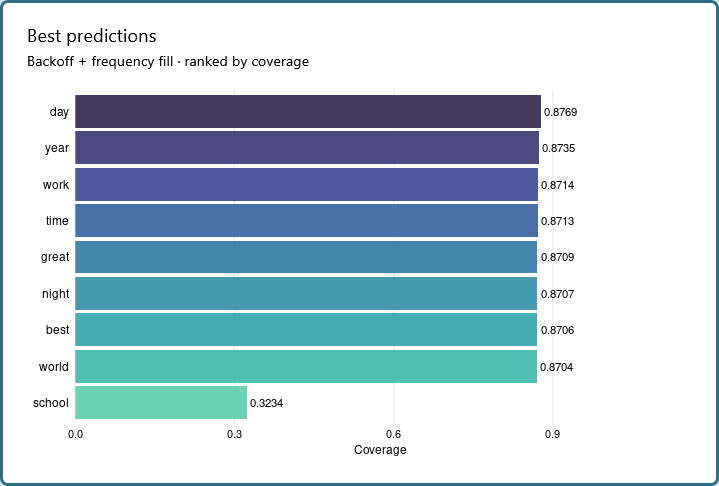
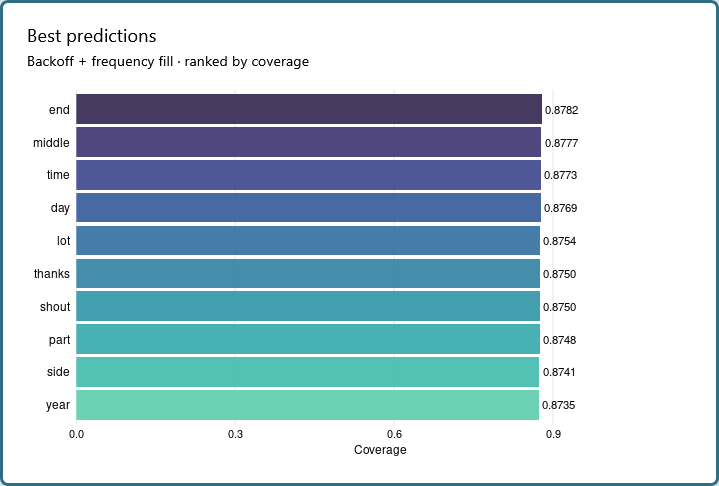
updated index and images of final app

Changed region(s): [[0.0306, 0.216, 0.8261, 0.9259], [0.306, 0.8642, 0.3366, 0.8951]]

diff --git a/index.html b/index.html
@@ -55,14 +55,15 @@ ul.task-list li input[type="checkbox"] {
   <li><a href="#app-features" id="toc-app-features" class="nav-link" data-scroll-target="#app-features">App Features</a>
   <ul class="collapse">
   <li><a href="#next-word-prediction" id="toc-next-word-prediction" class="nav-link" data-scroll-target="#next-word-prediction">Next Word Prediction</a></li>
-  <li><a href="#top-10-predictions-chart" id="toc-top-10-predictions-chart" class="nav-link" data-scroll-target="#top-10-predictions-chart">Top 10 Predictions Chart</a></li>
-  <li><a href="#metadata-table" id="toc-metadata-table" class="nav-link" data-scroll-target="#metadata-table">Metadata Table</a></li>
+  <li><a href="#exact-match-panel" id="toc-exact-match-panel" class="nav-link" data-scroll-target="#exact-match-panel">Exact Match Panel</a></li>
+  <li><a href="#best-predictions-panel" id="toc-best-predictions-panel" class="nav-link" data-scroll-target="#best-predictions-panel">Best Predictions Panel</a></li>
   </ul></li>
   <li><a href="#study-design" id="toc-study-design" class="nav-link" data-scroll-target="#study-design">Study Design</a>
   <ul class="collapse">
   <li><a href="#corpus" id="toc-corpus" class="nav-link" data-scroll-target="#corpus">Corpus</a></li>
   <li><a href="#model-development" id="toc-model-development" class="nav-link" data-scroll-target="#model-development">Model Development</a></li>
   <li><a href="#models-methods-and-implementations" id="toc-models-methods-and-implementations" class="nav-link" data-scroll-target="#models-methods-and-implementations">Models: Methods and Implementations</a></li>
+  <li><a href="#app-data-pipeline" id="toc-app-data-pipeline" class="nav-link" data-scroll-target="#app-data-pipeline">App Data Pipeline</a></li>
   <li><a href="#testing-model-accuracy-2026" id="toc-testing-model-accuracy-2026" class="nav-link" data-scroll-target="#testing-model-accuracy-2026">Testing Model Accuracy 2026</a></li>
   </ul></li>
   <li><a href="#project-resources" id="toc-project-resources" class="nav-link" data-scroll-target="#project-resources">Project Resources</a></li>
@@ -71,7 +72,7 @@ ul.task-list li input[type="checkbox"] {
   </ul>
 </nav>
 </div>
-<main class="content page-columns page-full" id="quarto-document-content">
+<main class="content" id="quarto-document-content">
 
 <header id="title-block-header" class="quarto-title-block default">
 <div class="quarto-title">
@@ -114,13 +115,15 @@ ul.task-list li input[type="checkbox"] {
 
 <section id="executive-summary" class="level2">
 <h2 class="anchored" data-anchor-id="executive-summary">Executive Summary</h2>
-<p><strong>Rationale:</strong> The goal was to build a Shiny app that predicts the next word from user text input using natural language processing techniques. The corpus used for training is the <a href="https://d396qusza40orc.cloudfront.net/dsscapstone/dataset/Coursera-SwiftKey.zip">SwiftKey dataset</a>, a large English-language collection of blogs, news articles, and tweets totalling approximately 200MB and 70 million words across three sources. Multiple modeling approaches were explored across four R packages — tidytext, quanteda, text2vec, and word2vec — including Stupid Backoff, MLE, interpolated backoff, Kneser-Ney smoothing, and Good-Turing smoothing. Stupid Backoff was the best performing model in 2021 and 2026. The new app version uses an improved Stupid Backoff model and UX design.</p>
+<p><strong>Rationale:</strong> The goal was to build a Shiny app that predicts the next word from user text input using natural language processing (NLP) techniques. The corpus used for training is the <a href="https://d396qusza40orc.cloudfront.net/dsscapstone/dataset/Coursera-SwiftKey.zip">SwiftKey dataset</a>, a large English-language collection of blogs, news articles, and tweets totalling approximately 200MB and 70 million words across three sources. Multiple modeling approaches were explored across four R packages — tidytext, quanteda, text2vec, and word2vec — including Stupid Backoff, MLE, interpolated backoff, Kneser-Ney smoothing, and Good-Turing smoothing. Stupid Backoff was the best performing model in 2021 and 2026. The 2026 app version uses an improved Stupid Backoff model built on pentagrams drawn from a 70% stratified sample of the corpus.</p>
 <p><strong>App Highlights</strong></p>
 <ul>
-<li>Accepts user text input and predicts the next word using a Stupid Backoff algorithm across unigram, bigram, trigram, and quadgram lookup tables, sampled from the top results weighted by probability</li>
-<li>Displays the top 10 predicted words and their probabilities in a bar chart</li>
-<li>Provides a metadata table showing which n-gram level was matched, total possibilities in that n-gram dataset, and number of matches found</li>
-<li>Supports both Go button and Enter key to trigger predictions</li>
+<li>Accepts user text input and predicts the next word using a windowed pentagram lookup with systematic backoff — searches all valid sequence positions across word1–word5, dropping the first word when matches are exhausted</li>
+<li>At the exact sequence level, allows up to 3 high-coverage stop words (e.g., of, a, the, not) alongside content word predictions (e.g., noun, verb, adjective, adverb) to capture natural completions while avoiding returning stop word heavy predictions.</li>
+<li>POS tag caching — uses udpipe to tag words by parts of speed and stores in session cache to improve response speed</li>
+<li>In addition to best prediction, there are two displays panels that each search the corpus for the exact input text, backing off to smaller ngrams if not found: Exact Match: if the input appears in the corpus, returns all results ranked by coverage (including best prediction); if no sequence match is found at any backoff level, searches for the last content word in input across pentagrams word1–word4, filters by coverage ≥ 0.50, and selects top word5. Best Predictions (fallback): filters results to nouns, proper nouns, and adjectives, then backfills with high-coverage unigrams from the pentagram pool when fewer than 10 POS-filtered results are found.</li>
+<li>Supports both Go button and Enter key to trigger predictions; clears panels on new input</li>
+<li>Built on a 70% stratified sample pentagram corpus (~157,500 rows) derived from news, blog, and Twitter text</li>
 </ul>
 <div class="callout callout-style-default callout-warning callout-titled">
 <div class="callout-header d-flex align-content-center">
@@ -137,65 +140,37 @@ ul.task-list li input[type="checkbox"] {
 </div>
 <hr>
 </section>
-<section id="app-features" class="level2 page-columns page-full">
+<section id="app-features" class="level2">
 <h2 class="anchored" data-anchor-id="app-features">App Features</h2>
 <section id="next-word-prediction" class="level3">
 <h3 class="anchored" data-anchor-id="next-word-prediction">Next Word Prediction</h3>
-<p>The app accepts a text string from the user and returns a predicted next word (<strong>Figure 1</strong>). Input is cleaned to lowercase before matching. The prediction uses a Stupid Backoff algorithm: the app first attempts to match the last three words of input against the quadgram lookup table. If no match is found it backs off to trigrams, then bigrams, then unigrams. The predicted word is sampled from the top 10 candidates at the matched n-gram level, weighted by probability, introducing variety across repeated queries while preserving the probability-based ranking. Stop words and single-character tokens are excluded from the predicted word display in the app interact.</p>
+<p>The app accepts a text string from the user and returns a predicted next word (<strong>Figure 1</strong>). Input is cleaned to lowercase, with apostrophes normalized and possessives removed before matching. Any input over 4 words uses only the last 4 words for the corpus search. The corpus search starts with max of four ngrams and then backs off to smaller ngrams if a match is not found. The predicted word is the first content word (noun, verb, adjective, adverb, or pronoun) from the Exact Match results ranked by coverage, selected via udpipe POS tagging. Up to 3 high-coverage stop words (quanteda stop word list) are permitted in the results but are skipped when selecting the predicted word. Up to 3 high-coverage stop words (quanteda stop word list) are permitted in the results, so the predicted word may occasionally be a stop word when it is the most probable continuation of the input. If no content word is found, the highest-coverage match from Best Predictions is returned. Total possibilities (pentagram corpus size) and exact match count are displayed as footnotes in the top panel.</p>
 <p><strong>Figure 1. App interface showing user input and predicted next word.</strong></p>
-<p><img src="outputs/fig-app-interface.png" class="img-fluid"> <strong>Interpretation:</strong> The prediction panel shows the most likely next word given the user input. The sidebar displays the predicted word prominently above the visualization tabs.</p>
+<p><img src="outputs/fig-app-interface.png" class="img-fluid"></p>
+<p><strong>Interpretation:</strong> The top panel shows the user input field, Go button, and predicted next word. Total possibilities and exact match count appear below as context for the prediction.</p>
 </section>
-<section id="top-10-predictions-chart" class="level3 page-columns page-full">
-<h3 class="anchored" data-anchor-id="top-10-predictions-chart">Top 10 Predictions Chart</h3>
-<p>The prediction bar chart in <strong>Figure 2</strong> displays the top 10 candidate next words ranked by probability, with the number of candidates varying based on matches found at the matched n-gram level . Bars are filled using the mako palette, with higher-probability predictions shown in darker shades. Probability is calculated as the count of the matched n-gram divided by the total count of all n-grams sharing the same prefix.</p>
-<p><strong>Figure 2. Top 10 predicted next words with probability scores for different types of matches</strong></p>
-<div class="column-page">
-<div class="quarto-layout-panel" data-layout-ncol="3">
-<div class="quarto-layout-row">
-<div class="quarto-layout-cell" style="flex-basis: 33.3%;justify-content: flex-start;">
-<div class="quarto-figure quarto-figure-center">
-<figure class="figure">
-<p><img src="outputs/match-single.png" class="img-fluid figure-img"></p>
-<figcaption>A) Single match</figcaption>
-</figure>
-</div>
-</div>
-<div class="quarto-layout-cell" style="flex-basis: 33.3%;justify-content: flex-start;">
-<div class="quarto-figure quarto-figure-center">
-<figure class="figure">
-<p><img src="outputs/match-many.png" class="img-fluid figure-img"></p>
-<figcaption>B) Many matches</figcaption>
-</figure>
-</div>
-</div>
-<div class="quarto-layout-cell" style="flex-basis: 33.3%;justify-content: flex-start;">
-<div class="quarto-figure quarto-figure-center">
-<figure class="figure">
-<p><img src="outputs/match-strong.png" class="img-fluid figure-img"></p>
-<figcaption>C) Strong match</figcaption>
-</figure>
-</div>
-</div>
-</div>
-</div>
-</div>
-<p><strong>Interpretation:</strong> The charts reveal how probability distributions vary across prediction contexts. A single dominant bar indicates a strong contextual match (C); a more even distribution across candidates reflects a weaker match with multiple plausible completions (B); and a single bar at 1.0 indicates exactly one match was found at that ngram level (A).</p>
+<section id="exact-match-panel" class="level3">
+<h3 class="anchored" data-anchor-id="exact-match-panel">Exact Match Panel</h3>
+<p>The Exact Match panel (<strong>Figure 2</strong>) displays corpus sequence matches ranked by coverage using a sliding window search followed by a backoff if needed–a contextual prediction. Either full input text or the last four words of text 5+ words in length searches in sliding windows across word1–word4 for a match. If a match is found, the predicted word is the column immediately following the last matched word (for four words, Word5 in pentagrams is a match). Up to 3 high-coverage stop words are allowed alongside content words, enabling natural predictions like “not” following “he did.” If there are not ten exact matches to full input sequence, the stupid backoff is triggered. The backoff filters stop words and drops the first input word to search for a match, dropping input words until all options are exhausted. Numerics and input words are excluded from all predictions.</p>
+<p><strong>Figure 2. Exact Match panel showing corpus sequence predictions for “where did you go to”.</strong></p>
+<p><img src="outputs/fig-exact-match.png" class="img-fluid"></p>
+<p><strong>Interpretation:</strong> Bars represent predictions ranked by coverage (cumulative corpus frequency). Stop words may appear among the top predictions when they are the most probable continuations of the input sequence. This panel provides the most accurate matche for the user.</p>
 </section>
-<section id="metadata-table" class="level3">
-<h3 class="anchored" data-anchor-id="metadata-table">Metadata Table</h3>
-<p>The metadata table shows the mechanics of the prediction: which n-gram level produced the match, the total number of n-grams at that level, and the number of matches found for the user input. This transparency about the backoff process was a deliberate design choice to make the model’s behavior interpretable.</p>
-<p><strong>Figure 3. Metadata table showing prediction mechanics.</strong></p>
-<p><img src="outputs/fig-app-table.png" class="img-fluid"></p>
-<p><strong>Interpretation:</strong> When the n-gram evaluated is a quadgram and matches are high, the prediction is well-grounded in the corpus. When the model reports backing off to unigrams with zero matches, the prediction is essentially a frequency-ranked guess from the full vocabulary.</p>
+<section id="best-predictions-panel" class="level3">
+<h3 class="anchored" data-anchor-id="best-predictions-panel">Best Predictions Panel</h3>
+<p>The Best Predictions panel (<strong>Figure 3</strong>) offers predictions using high-coverage unigrams with POS tagging as drawn from all five pentagram word columns and provides fallback options for the user if the predicted words were incorrect–a frequency-based approach. The use of POS tagging is designed to surface the most grammatically appropriate and content-rich predictions even if selecting by corpus frequency.</p>
+<p><strong>Figure 3. Best Predictions panel using POS-tagging and frequency to find a prediction for “where did you go to”.</strong></p>
+<p><img src="outputs/fig-best-predictions.png" class="img-fluid"></p>
+<p><strong>Interpretation:</strong> Bars represent POS-filtered predictions based on POS and frequency (high-coverage unigrams in the pentagram pool). This panel complements the Exact Match panel by providing additional predictions should the output not meet user expectations.</p>
 <hr>
 </section>
 </section>
 <section id="study-design" class="level2">
 <h2 class="anchored" data-anchor-id="study-design">Study Design</h2>
-<p>The original project (2021) was a capstone assignment for the Johns Hopkins Data Science Specialization on Coursera. Coming to NLP with no prior exposure, I independently learned and implemented multiple modeling approaches in R over six weeks — with no instruction on accuracy testing, I designed and built the evaluation framework from scratch. I built and tested several models before settling on a Stupid Backoff n-gram model for the deployed app. In 2026 I decided to revamp the original app using improved tools.</p>
+<p>The original project (2021) was a capstone assignment for the Johns Hopkins Data Science Specialization on Coursera. Coming to NLP with no prior exposure, I independently learned and implemented multiple modeling approaches in R over six weeks — with no instruction on accuracy testing, I designed and built the evaluation framework from scratch. In 2026 I decided to revamp the original app using improved tools.</p>
 <section id="corpus" class="level3">
 <h3 class="anchored" data-anchor-id="corpus">Corpus</h3>
-<p>The SwiftKey dataset contains English-language text from three sources. <strong>Table 1</strong> summarizes the corpus. Text was cleaned by removing punctuation (except apostrophes), digits, URLs, and profanity. In 2021, I experimented with removing stop words but the UX was poor and I reverted to including them.</p>
+<p>The SwiftKey dataset contains English-language text from three sources. <strong>Table 1</strong> summarizes the corpus. Text was cleaned by removing punctuation (except apostrophes), digits, URLs, and profanity using the <code>lexicon::profanity_alvarez</code> list. In 2021, I experimented with removing stop words but the UX was poor and I reverted to including them.</p>
 <p><strong>Table 1. SwiftKey Corpus Summary</strong></p>
 <table class="caption-top table">
 <thead>
@@ -243,22 +218,28 @@ ul.task-list li input[type="checkbox"] {
 <h3 class="anchored" data-anchor-id="model-development">Model Development</h3>
 <p>Building the n-gram lookup tables required substantial iterative work spanning June-July 2021. In addition to early exploration of topic-based prediction using Latent Dirichlet Allocation (LDA), other approaches were explored and deemed inappropriate. The two main ones were:</p>
 <ul>
-<li><strong>Text2Vec Model</strong>.GloVe Word Embeddings and Collocation: GloVe is a semantic similarity approach that represents words as dense vectors based on co-occurrence statistics, capturing semantic relationships rather than word sequences. The advantage is rich semantic representation — words with similar meanings cluster in vector space. The limitation is fundamental to the architecture: GloVe is not a sequence model and cannot predict the next word in a sentence without additional architecture. A term co-occurrence matrix was built from a 40% sample using a skip-gram window of 5, and GloVe was fitted with rank 50 over 10 iterations. The classic Paris-France-Germany analogy test confirmed the embeddings captured semantic relationships. A collocation variant with a different vector arithmetic test was also attempted. Both variants were abandoned as unsuitable for the sequence prediction task.</li>
-<li><strong>Word2Vec Model</strong>. CBOW and Skipgram: Word2Vec produces dense word embeddings that capture semantic relationships in both continuous bag-of-words and skipgram variants. Like GloVe, the strength is semantic representation — the embeddings reflect meaningful word relationships. The limitation is the same: Word2Vec is not a sequence model, and nearest-neighbor predictions using cosine similarity produce semantically related words rather than contextually likely next words. Both CBOW and skipgram models were trained on the 90% training split. Both were abandoned as unsuitable for sequence prediction.</li>
+<li><p><strong>Text2Vec Model</strong>. GloVe Word Embeddings and Collocation: GloVe is a semantic similarity approach that represents words as dense vectors based on co-occurrence statistics, capturing semantic relationships rather than word sequences. The advantage is rich semantic representation — words with similar meanings cluster in vector space. The limitation is fundamental to the architecture: GloVe is not a sequence model and cannot predict the next word in a sentence without additional architecture. A term co-occurrence matrix was built from a 40% sample using a skip-gram window of 5, and GloVe was fitted with rank 50 over 10 iterations. The classic Paris-France-Germany analogy test confirmed the embeddings captured semantic relationships. A collocation variant with a different vector arithmetic test was also attempted. Both variants were abandoned as unsuitable for the sequence prediction task.</p></li>
+<li><p><strong>Word2Vec Model</strong>. CBOW and Skipgram: Word2Vec produces dense word embeddings that capture semantic relationships in both continuous bag-of-words and skipgram variants. Like GloVe, the strength is semantic representation — the embeddings reflect meaningful word relationships. The limitation is the same: Word2Vec is not a sequence model, and nearest-neighbor predictions using cosine similarity produce semantically related words rather than contextually likely next words. Both CBOW and skipgram models were trained on the 50% training split. Both were abandoned as unsuitable for sequence prediction.</p></li>
 </ul>
-<p>Forty percent of each SwiftKey dataset was subsampled and then combined into a single corpus. Quanteda and tidytext were used for corpus processing and trimming (filter by count or coverage). App data were generated with and without stopwords. Trimming by coverage and retaining stopwords resulted in better UX and the final implementaions were tested for accuracy to assess whether the top-1 predicted word matched the target word using quadgram data as the test set. Stupid Backoff achieved 14.21% top-1 accuracy when predicting the <strong>exact word</strong>, not probable matches. Updated versions of original scripts for quanteda and tidytext have been consolidated and updated but any original bugs retained with annotations. These are shared in artifacts/.</p>
-<p>The 2026 project revisited the 2021 findings updating the approaches and introducing a new accuracy framework. An interterpolated approach was added and prior attempts at MLE were debugged. As with the 2021 project, 40% of the individual source files were sampled then joined. An additional 10% was subsampled from each source dataset to use as a test set for accuracy testing. The accuracy metric was expanded to top-10 and part-of-speech (POS) accuracy via udpipe. New accuracy metrics thus evaluated whether the correct word appeared in the top 10 candidates and whether the predicted word was grammatically appropriate.</p>
-<p>Tidytext Stupid Backoff and Interpolated Backoff performed nearly equally, but the interpolated model consistently favored specific high-frequency words, resulting in poor UX. Stupid Backoff was confirmed as the final model. The app was redesigned with a modernized interface using bslib, a revised metadata table, weighted probability sampling for the predicted word, and Enter key support.</p>
+<p>Forty percent of each SwiftKey dataset was subsampled and then combined into a single corpus for 2021 development. Quanteda and tidytext were used for corpus processing and trimming (filter by count or coverage). App data were generated with and without stopwords. Trimming by coverage and retaining stopwords resulted in better UX and the final implementations were tested for accuracy to assess whether the top-1 predicted word matched the target word using quadgram data as the test set. Stupid Backoff achieved 14.21% top-1 accuracy when predicting the exact word, not probable matches. Updated versions of original scripts for quanteda and tidytext have been consolidated and updated but any original bugs retained with annotations. These are shared in artifacts/.</p>
+<p>The 2026 project revisited the 2021 findings updating the approaches and introducing a new accuracy framework. An interpolated approach was added and prior attempts at MLE were debugged. Fifty percent of the individual source files were sampled then joined (the 2021 project sampled 40%). An additional 10% was subsampled from each source dataset to use as a test set for accuracy testing. The accuracy metric was expanded to top-10 and part-of-speech (POS) accuracy via udpipe. New accuracy metrics thus evaluated whether the correct word appeared in the top 10 candidates and whether the predicted word was grammatically appropriate.</p>
+<p>Tidytext Stupid Backoff and Interpolated Backoff performed nearly equally, but the interpolated model consistently favored specific high-frequency words, resulting in poor UX. Stupid Backoff was confirmed as the final model.</p>
 </section>
 <section id="models-methods-and-implementations" class="level3">
 <h3 class="anchored" data-anchor-id="models-methods-and-implementations">Models: Methods and Implementations</h3>
-<p><strong>tidytext Models</strong>. Stupid Backoff (2021 and 2026 winner): Stupid Backoff matches the input against the highest-order ngram available, backs off through lower orders if no match is found, and falls back to top unigrams as a last resort. No smoothing is applied — relative frequencies are used directly. The approach is simple, fast, and reliable, making it well suited to a Shiny deployment with memory and speed constraints. The primary limitation is that it assigns no probability to unseen ngrams and applies no discounting to redistribute probability mass. The tidytext implementation used unnest_tokens, a 90% cumulative coverage filter, and separated word columns keyed for fast lookup.</p>
+<p><strong>tidytext Models</strong>. Stupid Backoff (2021 and 2026 winner): Stupid Backoff matches the input against the highest-order ngram available, backs off through lower orders if no match is found, and falls back to top unigrams as a last resort. No smoothing is applied — relative frequencies are used directly. The approach is simple, fast, and reliable, making it well suited to a Shiny deployment with memory and speed constraints. The primary limitation is that it assigns no probability to unseen ngrams and applies no discounting to redistribute probability mass. The tidytext implementation used unnest_tokens, filters (rare ngrams, 80% cumulative coverage, dictionary matches), and separated word columns keyed for fast lookup.</p>
 <p>Maximum Likelihood Estimation (MLE): MLE computes the probability of a word given its preceding context as a relative frequency — the count of the ngram divided by the count of the preceding context. No smoothing or discounting is applied. MLE is transparent, fast, and easy to implement. The primary limitation is brittleness on unseen ngrams: any input absent from the training data returns zero probability with no recovery beyond dropping to a lower ngram order. The tidytext implementation followed the same pipeline as Stupid Backoff — unnest_tokens, 90% coverage filter, separated word columns — with probability computed as n divided by the sum of n within each preceding context group.</p>
 <p>Interpolated Backoff: Interpolated backoff combines probability estimates across all ngram levels rather than committing to the highest-order match and backing off only on failure. The final probability for a predicted word is a weighted sum of its quadgram, trigram, bigram, and unigram probabilities, with lambda weights that sum to one. This smooths over sparse data at higher ngram levels by always incorporating lower-order evidence, making it more robust than Stupid Backoff or MLE when training data is sparse. The cost is additional computation relative to the simpler approaches. The tidytext implementation used the same 90% coverage-filtered ngram data, computing interpolated probabilities across all four levels and returning the top candidates by combined score.</p>
 <p><strong>Quanteda Models</strong> Simple MLE Backoff: Maximum likelihood estimation with a simple backoff strategy — match the longest possible ngram, back off to shorter ngrams if no match is found, return nothing if all levels fail. MLE is simple, fast, and interpretable. The limitation is zero probability for unseen ngrams with no smoothing to redistribute probability mass. The quanteda tokenization pipeline was used to build document-feature matrices from the training data with dfm_trim applied to reduce sparsity. The script was abandoned after data preparation — no model code was written. The decision was made to move directly to more sophisticated smoothing methods rather than reimplement MLE in a second framework.</p>
 <p>Kneser-Ney Smoothing: Kneser-Ney smoothing computes continuation probabilities — the likelihood of a word appearing in a novel context — rather than raw frequency. This makes it theoretically superior to MLE and Stupid Backoff for handling unseen ngrams, particularly for lower-order models. The standard Kneser-Ney formula with a discount value of 0.75 was implemented using a quanteda DFM pipeline. The model produced mathematically sound probability estimates but failed in practice due to an incompatibility between quanteda’s underscore separator in its internal token representation and the space-separated format required by the prediction functions. Errors in the backoff and binding functions prevented successful deployment.</p>
 <p>Good-Turing Smoothing with Katz Backoff: Good-Turing smoothing re-estimates the probability of unseen ngrams by reallocating probability mass from observed ngrams based on the frequency of frequencies. Combined with Katz backoff, which applies an alpha normalization factor, the approach is theoretically well suited to handling sparse data and novel word sequences. The implementation built a quanteda DFM pipeline, fitted log-linear regression models to estimate smoothed counts, and implemented the full Katz backoff chain from trigrams through unigrams. The July iteration produced output but returned only the same five words for any input — a symptom of the alpha normalization factor collapsing to a constant, likely caused by the quanteda underscore separator issue. Multiple iterations (originally labeled model3, 4a, and 4b) were attempted with minor data preparation differences; none resolved the core issue.</p>
 <p><strong>A note on transformer and LSTM approaches:</strong> Contextual language models such as GPT-2 and BERT existed in 2021 and would in principle address the semantic limitations of ngram approaches. However, practical access in R was limited: the keras and tensorflow packages provided an R interface to LSTM sequence models, and this was explored, but the implementation complexity for a sequence model on a 70-million-word corpus was out of scope for a capstone assignment. HuggingFace transformer inference in R was experimental at the time and not production-ready. The text package, which now wraps HuggingFace models cleanly, was in early development. The ngram approach was the correct practical choice given the assignment constraints and the R ecosystem in 2021. The semantic ceiling of the deployed app — predicting grammatically plausible but not always contextually precise words — is an inherent limitation of frequency-based ngram models rather than a failure of implementation.</p>
+</section>
+<section id="app-data-pipeline" class="level3">
+<h3 class="anchored" data-anchor-id="app-data-pipeline">App Data Pipeline</h3>
+<p>The 2026 app uses a separate data pipeline from the model development scripts. Model development used lower-order ngrams (unigrams through quadgrams) but found that pentagrams alone, with the windowed backoff search across all five positions, provided sufficient coverage without the overhead of maintaining multiple lookup tables, which slowed UX response and exceeded Shiny file size allowances.</p>
+<p>The cleaned corpus was subsampled at five levels — 30%, 40%, 50%, 60%, and 70% — stratified by source to preserve representation across blogs, news, and Twitter. Each sample was used to generate a pentagram file to test the relationship between corpus size, ngram coverage, and file size. Pentagrams were filtered to a minimum count of 5 occurrences, trimmed to 80% cumulative coverage, and split into five word columns (word1–word5). Each word was then validated against a hunspell English dictionary to remove non-English tokens. The resulting file was indexed for fast lookup.</p>
+<p>Due to the small pentagram file size, the full corpus was also tested. After applying frequency and coverage filters, the resulting pentagram file for the full corpus was the same size as the 70% sample, suggesting the filters effectively cap the vocabulary regardless of corpus size. The 70% sample was selected as the final corpus, yielding approximately 157,500 pentagram rows at 3.2MB — small enough for fast Shiny loading while capturing effectively full corpus coverage.</p>
 </section>
 <section id="testing-model-accuracy-2026" class="level3">
 <h3 class="anchored" data-anchor-id="testing-model-accuracy-2026">Testing Model Accuracy 2026</h3>
@@ -275,7 +256,7 @@ ul.task-list li input[type="checkbox"] {
 <p>The accuracy testing methods in 2021 were for exact prediction. In 2026, top-10 and POS were used. The values do not reflect genuine gain in model performance.</p>
 </div>
 </div>
-<p>Three tidytext variants were tested — MLE backoff, Stupid Backoff, and interpolated backoff — alongside the quanteda, text2vec, and word2vec implementations. Accuracy was evaluated using two measures: top-10 prediction accuracy and POS to assess whether the top-1 predicted word matched the part-of-speech of the target word via udpipe. <strong>Table 2</strong> summarizes accuracy across all models. All three tidytext models dominate on both metrics. Stupid Backoff ranks highest on top-10 accuracy and is tied with MLE for POS accuracy – but POS accuracy tended to be above 50% in all models except Quanteda Kneser-New. Kneser-Ney’s POS accuracy (37.3%) notably exceeds its top-10 accuracy (9%), indicating it predicts the right kind of word even when missing the exact word. <strong>Tidytext Stupid Backoff is confirmed as the final model</strong> — consistent with the original 2021 finding</p>
+<p>Three tidytext variants were tested — MLE backoff, Stupid Backoff, and interpolated backoff — alongside the quanteda, text2vec, and word2vec implementations. Accuracy was evaluated using two measures: top-10 prediction accuracy and POS to assess whether the top-1 predicted word matched the part-of-speech of the target word via udpipe. <strong>Table 2</strong> summarizes accuracy across all models. All three tidytext models dominate on both metrics. Stupid Backoff ranks highest on top-10 accuracy and is tied with MLE for POS accuracy — but POS accuracy tended to be above 50% in all models except Quanteda Kneser-Ney. Kneser-Ney’s POS accuracy (37.3%) notably exceeds its top-10 accuracy (9%), indicating it predicts the right kind of word even when missing the exact word. <strong>Tidytext Stupid Backoff is confirmed as the final model</strong> — consistent with the original 2021 finding.</p>
 <p><strong>Table 2. Model Accuracy — Ranked by Top-10 Values</strong></p>
 <table class="caption-top table">
 <thead>
@@ -332,10 +313,11 @@ ul.task-list li input[type="checkbox"] {
 <h2 class="anchored" data-anchor-id="project-resources">Project Resources</h2>
 <p><strong>Repository:</strong> <a href="https://github.com/kchoover14/nlp-next-word-prediction">kchoover14/nlp-next-word-prediction</a></p>
 <p><strong>Live App:</strong> <a href="https://kchoover14.shinyapps.io/NextWord/">Next Word Prediction App</a></p>
-<p><strong>Data :</strong></p>
+<p><strong>Data:</strong></p>
 <ul>
-<li><code>app/tidytext-*.csv</code> – n-gram lookup tables used by the deployed Shiny app</li>
-<li><code>app/app.R</code> – updated Shiny app with bslib theming, backoff chain table, mako color palette</li>
+<li><code>data/corpus-sample*.csv</code> – stratified corpus samples at 30%, 40%, 50%, 60%, 70% used for app development</li>
+<li><code>data/corpus-train.rds</code> and <code>data/corpus-test.rds</code> – 50% train and 10% test splits used for model accuracy testing</li>
+<li><code>app/pentagrams.csv</code> – final 70% pentagram lookup table used by the deployed app</li>
 </ul>
 <div class="callout callout-style-default callout-note callout-titled">
 <div class="callout-header d-flex align-content-center">
@@ -351,13 +333,18 @@ ul.task-list li input[type="checkbox"] {
 </div>
 </div>
 <p><strong>Code:</strong></p>
-<p><em>Prep scripts – run before corresponding model scripts. All current scripts use stop words retained and 90/10 train/test split at line level:</em></p>
+<p><em>App data pipeline — run in order:</em></p>
 <ul>
-<li><code>prep-corpus-sample.R</code> – corpus sampling and cleaning pipeline</li>
+<li><code>prep-app-corpus.R</code> – corpus cleaning and stratified sampling pipeline (30%–70%)</li>
+<li><code>prep-app-ngrams.R</code> – pentagram generation, filtering, hunspell validation, and indexing</li>
+</ul>
+<p><em>Model development prep scripts — run before corresponding model scripts. All use stop words retained and 50/10 train/test split at line level:</em></p>
+<ul>
+<li><code>scripts/prep-corpus-sample.R</code> – corpus sampling and cleaning pipeline</li>
 <li><code>scripts/prep-r1-tidytext.R</code> – tidytext corpus pipeline</li>
 <li><code>scripts/prep-r1-quanteda.R</code> – quanteda corpus pipeline</li>
 </ul>
-<p><em>Model scripts – r1 (current):</em></p>
+<p><em>Model scripts — r1 (current):</em></p>
 <ul>
 <li><code>scripts/model-r1-tidytext-stupid.R</code> – Stupid Backoff; top-10 and POS accuracy on r1 test data</li>
 <li><code>scripts/model-r1-tidytext-mle.R</code> – MLE backoff; top-10 and POS accuracy on r1 test data</li>
@@ -365,7 +352,7 @@ ul.task-list li input[type="checkbox"] {
 <li><code>scripts/model-r1-quanteda-mle.R</code> – quanteda MLE backoff; top-10 and POS accuracy on r1 test data</li>
 <li><code>scripts/model-r1-quanteda-good-turing.R</code> – Good-Turing + Katz backoff; top-10 and POS accuracy on r1 test data</li>
 <li><code>scripts/model-r1-quanteda-kneser-ney.R</code> – Kneser-Ney smoothing; top-10 and POS accuracy on r1 test data</li>
-<li>app.R – app script</li>
+<li><code>app/app.R</code> – deployed Shiny app</li>
 </ul>
 <p><strong>Project Artifacts:</strong></p>
 <p><em>2021 original app and data:</em></p>
@@ -393,13 +380,13 @@ ul.task-list li input[type="checkbox"] {
 <h2 class="anchored" data-anchor-id="tools-technologies">Tools &amp; Technologies</h2>
 <p><strong>Languages:</strong> R</p>
 <p><strong>Tools:</strong> Shiny | shinyapps.io</p>
-<p><strong>Packages:</strong> shiny | shinycssloaders | bslib | stringr | dplyr | tidyr | data.table | kableExtra | tidytext | quanteda | lexicon | viridis | udpipe</p>
+<p><strong>Packages:</strong> shiny | shinycssloaders | bslib | stringr | dplyr | tidyr | data.table | tidytext | quanteda | lexicon | hunspell | viridis | udpipe</p>
 <hr>
 </section>
 <section id="expertise" class="level2">
 <h2 class="anchored" data-anchor-id="expertise">Expertise</h2>
 <p><strong>Domain Expertise:</strong> natural language processing | n-gram language models | text mining | corpus linguistics | predictive modeling | interactive tool development</p>
-<p><strong>Transferable Expertise:</strong> Demonstrates ability to systematically explore and evaluate competing methodological approaches, document iterative development transparently, and deploy a working NLP application from a messy real-world corpus – skills directly applicable to any data pipeline or applied ML project requiring both technical rigor and honest documentation of what worked and what did not.</p>
+<p><strong>Transferable Expertise:</strong> Demonstrates ability to systematically explore and evaluate competing methodological approaches, document iterative development transparently, and deploy a working NLP application from a messy real-world corpus — skills directly applicable to any data pipeline or applied ML project requiring both technical rigor and honest documentation of what worked and what did not.</p>
 </section>
 
 </main>
